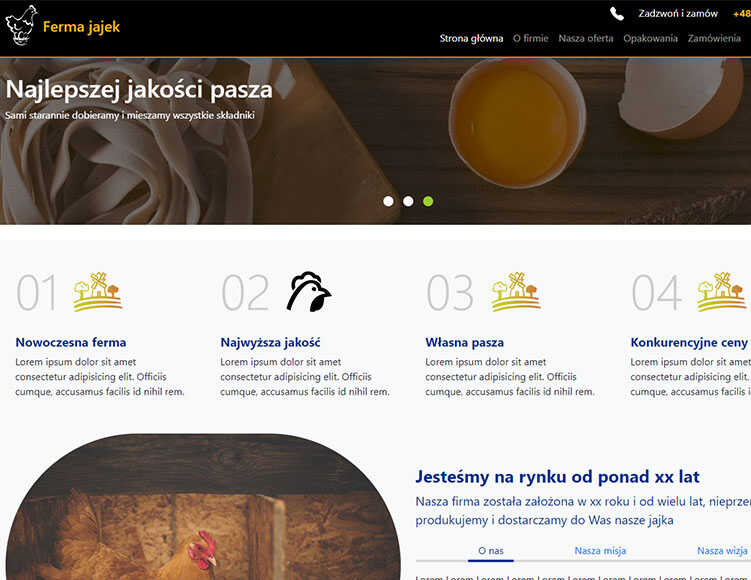
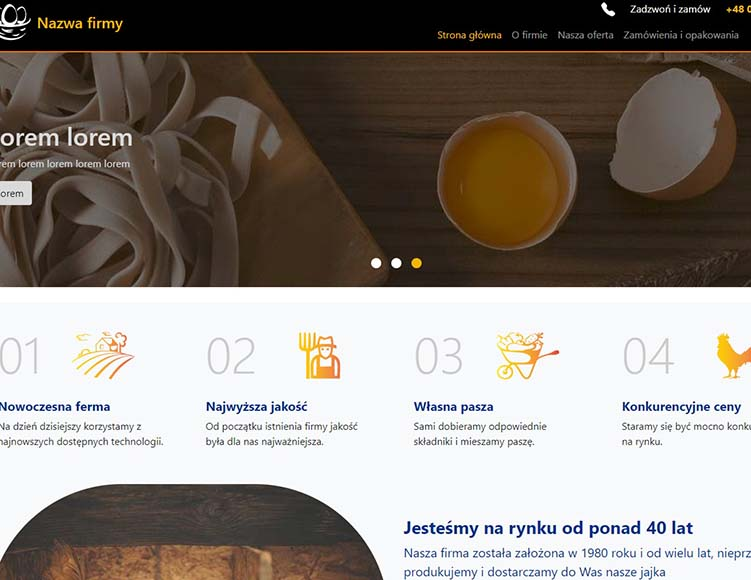
update links and description- projects

diff --git a/src/components/Icons/IcoSvg.js b/src/components/Icons/IcoSvg.js
@@ -871,7 +871,7 @@ export function ExpressSvg() {
 export function GitHubSvg() {
 	return (
 		<>
-			<g fill="#aaaaaa"><path fillRule="evenodd" clipRule="evenodd" d="M64 1.512c-23.493 0-42.545 19.047-42.545 42.545 0 18.797 12.19 34.745 29.095 40.37 2.126.394 2.907-.923 2.907-2.047 0-1.014-.04-4.366-.058-7.92-11.837 2.573-14.334-5.02-14.334-5.02-1.935-4.918-4.724-6.226-4.724-6.226-3.86-2.64.29-2.586.29-2.586 4.273.3 6.523 4.385 6.523 4.385 3.794 6.504 9.953 4.623 12.38 3.536.383-2.75 1.485-4.628 2.702-5.69-9.45-1.075-19.384-4.724-19.384-21.026 0-4.645 1.662-8.44 4.384-11.42-.442-1.072-1.898-5.4.412-11.26 0 0 3.572-1.142 11.7 4.363 3.395-.943 7.035-1.416 10.65-1.432 3.616.017 7.258.49 10.658 1.432 8.12-5.504 11.688-4.362 11.688-4.362 2.316 5.86.86 10.187.418 11.26 2.728 2.978 4.378 6.774 4.378 11.42 0 16.34-9.953 19.938-19.427 20.99 1.526 1.32 2.886 3.91 2.886 7.88 0 5.692-.048 10.273-.048 11.674 0 1.13.766 2.458 2.922 2.04 16.896-5.632 29.07-21.574 29.07-40.365C106.545 20.56 87.497 1.512 64 1.512z"></path><path d="M37.57 62.596c-.095.212-.428.275-.73.13-.31-.14-.482-.427-.382-.64.09-.216.424-.277.733-.132.31.14.486.43.38.642zm-.524-.388M39.293 64.52c-.203.187-.6.1-.87-.198-.278-.297-.33-.694-.124-.884.208-.188.593-.1.87.197.28.3.335.693.123.884zm-.406-.437M40.97 66.968c-.26.182-.687.012-.95-.367-.262-.377-.262-.83.005-1.013.264-.182.684-.018.95.357.262.385.262.84-.005 1.024zm0 0M43.268 69.336c-.233.257-.73.188-1.093-.163-.372-.343-.475-.83-.242-1.087.237-.257.736-.185 1.102.163.37.342.482.83.233 1.086zm0 0M46.44 70.71c-.104.334-.582.485-1.064.344-.482-.146-.796-.536-.7-.872.1-.336.582-.493 1.067-.342.48.144.795.53.696.87zm0 0M49.92 70.965c.013.35-.396.642-.902.648-.508.012-.92-.272-.926-.618 0-.354.4-.642.908-.65.506-.01.92.272.92.62zm0 0M53.16 70.414c.06.342-.29.694-.793.787-.494.092-.95-.12-1.014-.46-.06-.35.297-.7.79-.792.503-.088.953.118 1.017.466zm0 0"></path></g><g fill="#100E0F"><path fill="#aaaaaa" d="M24.855 108.302h-10.7a.5.5 0 0 0-.5.5v5.232a.5.5 0 0 0 .5.5h4.173v6.5s-.937.32-3.53.32c-3.056 0-7.327-1.116-7.327-10.508 0-9.393 4.448-10.63 8.624-10.63 3.614 0 5.17.636 6.162.943.31.094.6-.216.6-.492l1.193-5.055a.468.468 0 0 0-.192-.39c-.403-.288-2.857-1.66-9.058-1.66-7.144 0-14.472 3.038-14.472 17.65 0 14.61 8.39 16.787 15.46 16.787 5.854 0 9.405-2.502 9.405-2.502.146-.08.162-.285.162-.38v-16.316a.5.5 0 0 0-.5-.5zM79.506 94.81H73.48a.5.5 0 0 0-.498.503l.002 11.644h-9.392V95.313a.5.5 0 0 0-.497-.503H57.07a.5.5 0 0 0-.498.503v31.53c0 .277.224.503.498.503h6.025a.5.5 0 0 0 .497-.504v-13.486h9.392l-.016 13.486c0 .278.224.504.5.504h6.038a.5.5 0 0 0 .497-.504v-31.53c0-.278-.22-.502-.497-.502zM32.34 95.527c-2.144 0-3.884 1.753-3.884 3.923 0 2.167 1.74 3.925 3.884 3.925 2.146 0 3.885-1.758 3.885-3.925 0-2.17-1.74-3.923-3.885-3.923zM35.296 105.135H29.29c-.276 0-.522.284-.522.56v20.852c0 .613.382.795.876.795h5.41c.595 0 .74-.292.74-.805v-6.346-14.553a.5.5 0 0 0-.498-.502zM102.902 105.182h-5.98a.5.5 0 0 0-.496.504v15.46s-1.52 1.11-3.675 1.11-2.727-.977-2.727-3.088v-13.482a.5.5 0 0 0-.497-.504h-6.068a.502.502 0 0 0-.498.504v14.502c0 6.27 3.495 7.804 8.302 7.804 3.944 0 7.124-2.18 7.124-2.18s.15 1.15.22 1.285c.07.136.247.273.44.273l3.86-.017a.502.502 0 0 0 .5-.504l-.003-21.166a.504.504 0 0 0-.5-.502zM119.244 104.474c-3.396 0-5.706 1.515-5.706 1.515V95.312a.5.5 0 0 0-.497-.503H107a.5.5 0 0 0-.5.503v31.53a.5.5 0 0 0 .5.503h4.192c.19 0 .332-.097.437-.268.103-.17.254-1.454.254-1.454s2.47 2.34 7.148 2.34c5.49 0 8.64-2.784 8.64-12.502s-5.03-10.988-8.428-10.988zm-2.36 17.764c-2.073-.063-3.48-1.004-3.48-1.004v-9.985s1.388-.85 3.09-1.004c2.153-.193 4.228.458 4.228 5.594 0 5.417-.935 6.486-3.837 6.398zM53.195 122.12c-.263 0-.937.107-1.63.107-2.22 0-2.973-1.032-2.973-2.368v-8.866h4.52a.5.5 0 0 0 .5-.504v-4.856a.5.5 0 0 0-.5-.502h-4.52l-.007-5.97c0-.227-.116-.34-.378-.34h-6.16c-.238 0-.367.106-.367.335v6.17s-3.087.745-3.295.805a.5.5 0 0 0-.36.48v3.877a.5.5 0 0 0 .497.503h3.158v9.328c0 6.93 4.86 7.61 8.14 7.61 1.497 0 3.29-.48 3.586-.59.18-.067.283-.252.283-.453l.004-4.265a.51.51 0 0 0-.5-.502z"></path></g>
+			<path fill="#F34F29" d="M124.737 58.378l-55.116-55.114c-3.172-3.174-8.32-3.174-11.497 0l-11.444 11.446 14.518 14.518c3.375-1.139 7.243-.375 9.932 2.314 2.703 2.706 3.461 6.607 2.294 9.993l13.992 13.993c3.385-1.167 7.292-.413 9.994 2.295 3.78 3.777 3.78 9.9 0 13.679-3.78 3.78-9.901 3.78-13.683 0-2.842-2.844-3.545-7.019-2.105-10.521l-13.048-13.048-.002 34.341c.922.455 1.791 1.063 2.559 1.828 3.778 3.777 3.778 9.898 0 13.683-3.779 3.777-9.904 3.777-13.679 0-3.778-3.784-3.778-9.905 0-13.683.934-.933 2.014-1.638 3.167-2.11v-34.659c-1.153-.472-2.231-1.172-3.167-2.111-2.862-2.86-3.551-7.06-2.083-10.576l-14.313-14.313-37.792 37.79c-3.175 3.177-3.175 8.325 0 11.5l55.117 55.114c3.174 3.174 8.32 3.174 11.499 0l54.858-54.858c3.174-3.176 3.174-8.327-.001-11.501z"></path>
 		</>
 	)
 }

diff --git a/src/pages/Projects/Projects.js b/src/pages/Projects/Projects.js
@@ -20,32 +20,32 @@ export default function Projects() {
     technology: ['html', 'js', 'css', 'bootstrap', 'react', 'firebase'],
     title: 'NotesApp',
     description: 'W pełni responsywna strona, która pozwala nam na rejestracje, logowanie, edycję oraz usuwanie użytkownika, sesja użytkownika jest zapisana w localstorage oraz trwa 60 minut. W aplikacji można dodawać, edytować usuwać oraz personalizować notatki, które są przypisane do aktualnie zalogowanego użytkownika (obsługa- firebase)',
-    liveView: 'https://www.onet.pl',
-    githubLink: 'https://www.onet.pl'
+    liveView: 'michalmg.github.io/Notes/',
+    githubLink: 'https://github.com/MichalMG/Notes'
   }, {
     image: project2,
     imgInfo: 'projekt 2',
     technology: ['html', 'js', 'css', 'bootstrap', 'react'],
     title: 'Projekt fermy drobiu, sprzedaży jajek',
-    description: 'Strona zaprojektowana dla firmy, która zajmuje się sprzedażą jajek. Strona responsywna, w calości zaprojektowana i wykonana, wypełniona przykładowym tekstem.',
-    liveView: 'https://www.onet.pl',
-    githubLink: 'https://www.onet.pl'
+    description: 'Strona zaprojektowana dla firmy, która zajmuje się sprzedażą jajek. W pełni responsywna strona. Strona przygotowana do publikacji, została stworzona do portfolio. Stronę w całości zaprojektowałem i zakodowałem.',
+    liveView: 'https://michalmg.github.io/Eggs',
+    githubLink: 'https://github.com/MichalMG/Eggs'
   }, {
     image: project3,
     imgInfo: 'projekt 3',
     technology: ['html', 'js', 'css', 'bootstrap', 'react'],
-    title: 'Projekt firmy budowlanej/Usługi koparko-ładowarką',
-    description: 'Strona zaprojektowana dla firmy świadczącej usługi koparko ładowarką oraz usługi budowlane. Projekt został oparty na Reacie, w pełni responsywny..',
-    liveView: 'https://www.onet.pl',
-    githubLink: 'https://www.onet.pl'
+    title: 'Projekt strony firmy budowlanej/Usługi koparko-ładowarką',
+    description: 'Strona zaprojektowana dla firmy budowlanej/świadczącej usługi koparko ładowarką. W pełni responsywna strona, wraz z działającym formularzem kontaktowym (z validacją) opartym na EmailJS. Strona przygotowana do publikacji, została stworzona do portfolio. Stronę w całości zaprojektowałem i zakodowałem',
+    liveView: 'https://michalmg.github.io/Appbud/',
+    githubLink: 'https://github.com/MichalMG/Appbud'
   }, {
     image: project4,
     imgInfo: 'projekt 4',
     technology: ['html', 'js', 'css', 'bootstrap', 'react'],
     title: 'WeatherApp',
-    description: 'Responsywna strona, która przedstawia aktualną prognozę pogody dla wyszukanego miasta, która jest wczytywana z zewnętrznego API',
-    liveView: 'https://www.onet.pl',
-    githubLink: 'https://www.onet.pl'
+    description: 'Responsywna strona, która przedstawia aktualną prognozę pogody dla wyszukanego miasta wczytywaną z zewnętrznego API',
+    liveView: 'https://michalmg.github.io/WeatherApp/',
+    githubLink: 'https://github.com/MichalMG/WeatherApp'
   }]
 
   const projectsContainer = useRef();

diff --git a/public/index.html b/public/index.html
@@ -21,22 +21,13 @@
       work correctly both with client-side routing and a non-root public URL.
       Learn how to configure a non-root public URL by running `npm run build`.
     -->
-  <title>React App</title>
+  <title>PortfolioMG</title>
 </head>
 
 <body>
   <noscript>You need to enable JavaScript to run this app.</noscript>
   <div id="root"></div>
-  <!--
-      This HTML file is a template.
-      If you open it directly in the browser, you will see an empty page.
 
-      You can add webfonts, meta tags, or analytics to this file.
-      The build step will place the bundled scripts into the <body> tag.
-
-      To begin the development, run `npm start` or `yarn start`.
-      To create a production bundle, use `npm run build` or `yarn build`.
-    -->
 </body>
 
 </html>

diff --git a/src/components/Footer/Footer.js b/src/components/Footer/Footer.js
@@ -44,7 +44,7 @@ export default function Footer() {
         </div>
       </div>
       <div className="mt-4 text-center" style={{ backgroundColor: 'black', color: "#555" }}>
-        <p className="py-2 mb-0">Copyright by MG</p>
+        <p className="m-0 py-1">Copyright  <a className="link-success text-decoration-none" href="https://michalmg.github.io/Portfolio/">MG</a></p>
       </div>
     </footer>
   )
